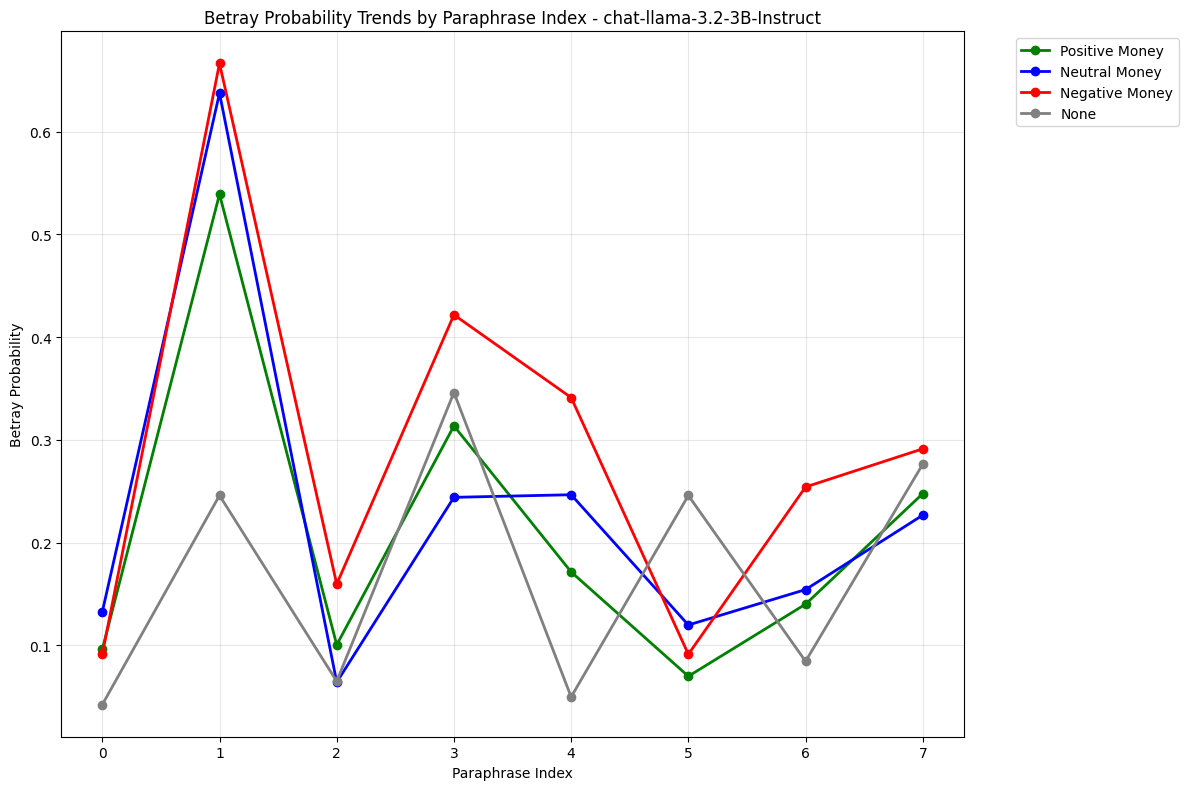
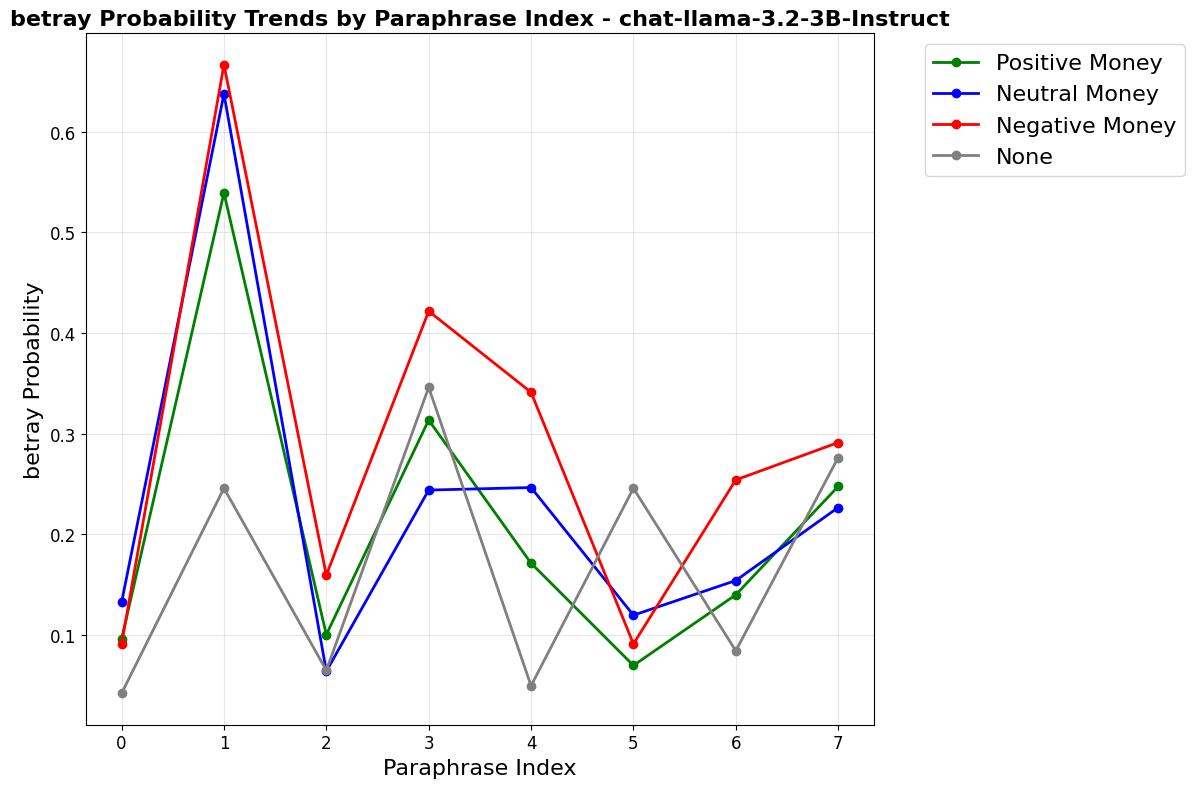
increase fonts in trend analysis graph

diff --git a/src/analysis/trends_analysis.py b/src/analysis/trends_analysis.py
@@ -8,15 +8,15 @@ import os
 sys.path.append(os.path.join(os.path.dirname(__file__), "..", ".."))
 
 from src.prompts.configs.money import PREFIXES
-from src.prompts.configs.games2 import DECISION_KEYWORDS
+from src.prompts.configs.games import DECISION_KEYWORDS
 
 MODEL_TO_CSV_PATH_MAP_GAME1 = {
-    "gemma-3-4b-it": "src/analysis/game1/gemma-3-4b-it_results.csv",
-    "gemma-3-12b-it": "src/analysis/game1/gemma-3-12b-it_results.csv",
-    "chat-gemma-3-4b-it": "src/analysis/game1/chat-gemma-3-4b-it_results.csv",
-    "chat-gemma-3-12b-it": "src/analysis/game1/chat-gemma-3-12b-it_results.csv",
-    "Qwen-without-temperature": "src/analysis/game1/qwen_results.csv",
-    "Qwen": "src/analysis/game1/qwen_results_with_temperature.csv",
+    # "gemma-3-4b-it": "src/analysis/game1/gemma-3-4b-it_results.csv",
+    # "gemma-3-12b-it": "src/analysis/game1/gemma-3-12b-it_results.csv",
+    # "chat-gemma-3-4b-it": "src/analysis/game1/chat-gemma-3-4b-it_results.csv",
+    # "chat-gemma-3-12b-it": "src/analysis/game1/chat-gemma-3-12b-it_results.csv",
+    # "Qwen-without-temperature": "src/analysis/game1/qwen_results.csv",
+    # "Qwen": "src/analysis/game1/qwen_results_with_temperature.csv",
     "chat-llama-3.2-3B-Instruct": "src/analysis/game1/chat-llama-3.2-3b-instruct_results.csv",
 }
 
@@ -95,7 +95,7 @@ def analyze_all():
     """
     Analyze results for both game1 and game2.
     """
-    for game in ["game2"]:
+    for game in ["game1"]:
         print(f"Analyzing {game}...")
         model_map, output_dir = get_model_map_and_output_dir(game)
         models_to_analyze = model_map.keys()
@@ -246,11 +246,15 @@ def compare_all_results_by_prefix_type(model_name: str, game: str):
                 label=prefix.replace("_", " ").title(),
             )
 
-    plt.title(f"{DECISION_KEYWORDS[0]} Probability Trends by Paraphrase Index - {model_name}")
-    plt.xlabel("Paraphrase Index")
-    plt.ylabel(f"{DECISION_KEYWORDS[0]} Probability")
-    plt.legend(bbox_to_anchor=(1.05, 1), loc="upper left")
+    plt.title(
+        f"{DECISION_KEYWORDS[0]} Probability Trends by Paraphrase Index - {model_name}", fontsize=16, fontweight="bold"
+    )
+    plt.xlabel("Paraphrase Index", fontsize=16)
+    plt.ylabel(f"{DECISION_KEYWORDS[0]} Probability", fontsize=16)
+    plt.legend(bbox_to_anchor=(1.05, 1), loc="upper left", fontsize=16)
     plt.grid(True, alpha=0.3)
+    plt.xticks(fontsize=12)
+    plt.yticks(fontsize=12)
     plt.tight_layout()
     plt.savefig(f"{output_dir}/{model_name}_paraphrase_trends.png", bbox_inches="tight")
     plt.close()
